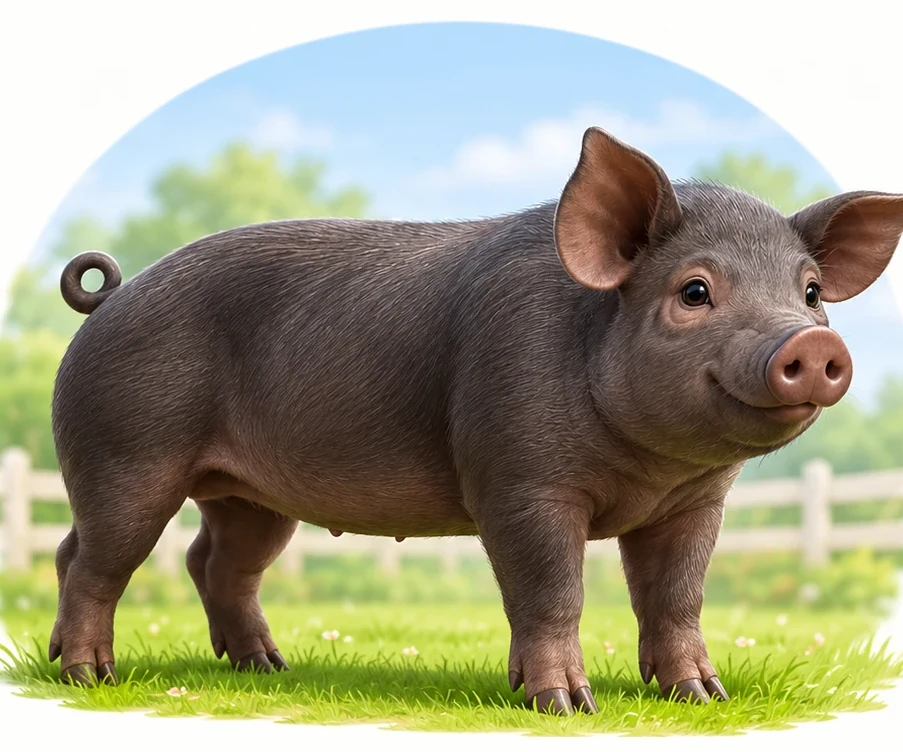
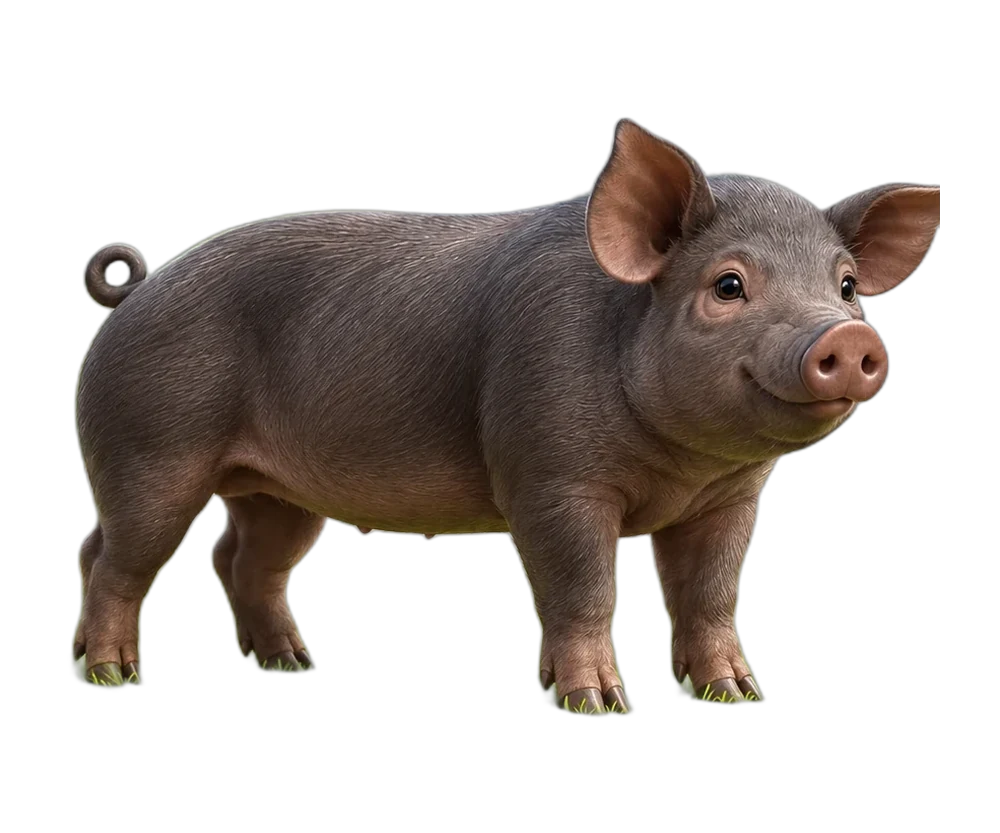
สายพันธุ์: ไดคัทรูปหมู ตัดพื้นหลังออกให้เหลือแต่ตัวสัตว์
เดิมรูปมีพื้นหลังฟ้า หญ้า รั้ว ติดมาเป็นกล่องสี่เหลี่ยม
วางคู่กับภาพวาดพื้นเรียบแล้วดูไม่เข้ากัน

- ตัดพื้นหลังทั้ง 5 พันธุ์ด้วย rembg เหลือเฉพาะตัวหมู พื้นหลังโปร่ง
- จัดให้ตัวหมูกว้างใกล้เคียงกันทุกใบ วางกลางกรอบสัดส่วนเดียวกัน
- เอาสีพื้นหลังที่รองอยู่ใต้รูปออกทุกจุด จะได้เห็นตัวหมูลอยบนการ์ด
- ช่องเลือกแม่พันธุ์เปลี่ยนจากครอบตัดเป็นแสดงเต็มตัว ไม่ให้หัวหมูโดนตัด

diff --git a/frontend/src/styles.css b/frontend/src/styles.css
@@ -3556,7 +3556,7 @@ th, td { font-size: 14px; }
 .bd-dams { display: flex; flex-direction: column; gap: 8px; }
 .bd-dam { position: relative; display: flex; align-items: center; gap: 10px; text-align: left; font: inherit; color: var(--text); cursor: pointer;
   background: var(--panel-2); border: 1.5px solid var(--border); border-radius: 12px; padding: 7px 10px; }
-.bd-dam-img { width: 62px; height: 40px; object-fit: cover; object-position: center 40%; border-radius: 8px; background: #f7f3ef; flex: none; }
+.bd-dam-img { width: 62px; height: 46px; object-fit: contain; border-radius: 8px; background: transparent; flex: none; }
 .bd-dam-text { min-width: 0; }
 .bd-dam-text b { display: block; font-size: 13.5px; }
 .bd-dam-text small { display: block; font-size: 11px; line-height: 1.4; color: var(--text-faint); margin-top: 1px; }
@@ -3582,7 +3582,7 @@ th, td { font-size: 14px; }
 .bd-trio { display: flex; align-items: center; justify-content: center; gap: 8px; margin-top: 16px; flex-wrap: wrap; }
 .bd-trio-item { margin: 0; flex: 1 1 150px; max-width: 210px; text-align: center; }
 .bd-trio-item img { width: 100%; aspect-ratio: 6 / 5; object-fit: contain;
-  border-radius: 12px; display: block; background: #f7f3ef; }
+  border-radius: 12px; display: block; background: transparent; }
 .bd-trio-item figcaption { margin-top: 6px; display: flex; flex-direction: column; align-items: center; gap: 2px; }
 .bd-trio-item figcaption b { font-size: 14.5px; }
 .bd-trio-item figcaption small { font-size: 11.5px; color: var(--text-faint); }
@@ -3626,7 +3626,7 @@ th, td { font-size: 14px; }
 }
 .bd-note.alt b i { color: #6aa9ff; }
 .bd-alt { display: flex; gap: 12px; align-items: center; }
-.bd-alt img { width: 96px; border-radius: 10px; flex: none; background: #f7f3ef; }
+.bd-alt img { width: 96px; border-radius: 10px; flex: none; background: transparent; }
 .bd-alt-name { display: block; font-size: 13.5px; font-weight: 600; }
 .bd-alt p { margin: 3px 0 0; font-size: 12.5px; line-height: 1.6; color: var(--text-dim); }
 
@@ -4093,7 +4093,7 @@ th, td { font-size: 14px; }
 
 /* การ์ดสายพันธุ์ — รูปหมูแยกต่อพันธุ์อยู่บน ข้อความเป็น HTML แก้ไขได้ */
 .bd-breed-photo { width: 100%; aspect-ratio: 6 / 5; object-fit: contain;
-  background: #fbfaf7; border-radius: 12px; display: block; }
+  background: transparent; border-radius: 12px; display: block; }
 .bd-breed-facts { list-style: none; margin: 8px 0 0; padding: 0;
   display: flex; flex-direction: column; gap: 7px; }
 .bd-breed-facts li { display: flex; gap: 9px; align-items: flex-start;
